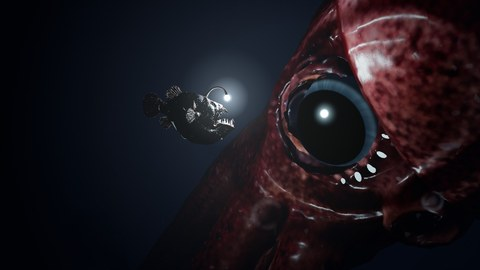
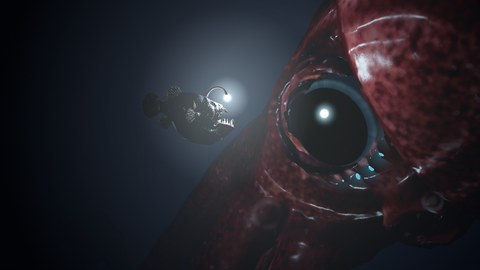
abyss-eye: mood over optics - wider lure wash, softer photophores
The concept art lets the lure wash the whole face in blue-white, which is
optically wrong but carries the mood; this is an atmosphere wallpaper.
- lure light decays slower (1.3) and a cold fill (decay 0.6) rides along
- bigger, brighter halo; iris dimmed and narrowed
- photophores shrunk to deep-cyan points, each with a small glow sprite
Frame time about 9.4 ms.

diff --git a/themes/abyss-eye/index.html b/themes/abyss-eye/index.html
@@ -146,7 +146,10 @@ scene.add(ambient);
 const rim = new THREE.DirectionalLight(0x4f86c6, 0.35);
 rim.position.set(1.5, 1.2, -2.5);
 scene.add(rim);
-const lureLight = new THREE.PointLight(0xcff4ff, 0, 0, 2);
+// The lure light falls off slower than physics (decay 1.3) and a cold fill rides along with an even flatter falloff:
+// in the concept art the lure washes the whole face in blue-white, which is wrong optically but right for the mood.
+const lureLight = new THREE.PointLight(0xcff4ff, 0, 0, 1.3);
+const lureFill = new THREE.PointLight(0x7fa6e8, 0, 0, 0.6);
 // the lure's glow in the murky water: a tight hot core and a wide soft halo, both additive sprites
 function glowTexture() {
   const c = document.createElement('canvas'); c.width = c.height = 128;
@@ -156,7 +159,12 @@ function glowTexture() {
   const t = new THREE.CanvasTexture(c); t.colorSpace = THREE.SRGBColorSpace; return t;
 }
 const glowTex = glowTexture();
-const halo = [0.06, 0.55].map(size => {
+const photoGlow = Array.from({ length: 14 }, () => {
+  const sp = new THREE.Sprite(new THREE.SpriteMaterial({ map: glowTex, color: 0x39b6ff, transparent: true, depthWrite: false,
+    blending: THREE.AdditiveBlending, fog: false, opacity: 0 }));
+  sp.scale.setScalar(0.07); scene.add(sp); return sp;
+});
+const halo = [0.06, 1.0].map(size => {
   const sp = new THREE.Sprite(new THREE.SpriteMaterial({ map: glowTex, color: 0xcff4ff, transparent: true, depthWrite: false,
     depthTest: size < 0.1, blending: THREE.AdditiveBlending, fog: false }));
   sp.userData.size = size; scene.add(sp); return sp;
@@ -241,7 +249,7 @@ function eyeMaterial() {
         vec3 iris = mix(vec3(0.10, 0.16, 0.22), vec3(0.42, 0.50, 0.55), smoothstep(uPupil, 0.95, rho)) * striae;
         iris *= smoothstep(0.98, 0.85, rho);                          // dark limbal ring
         float pupil = smoothstep(uPupil + 0.02, uPupil - 0.02, rho);
-        vec3 inside = mix(iris, vec3(0.0), pupil) * (0.015 + lit * 0.07) * uLureCol;
+        vec3 inside = mix(iris, vec3(0.0), pupil) * (0.012 + lit * 0.035) * uLureCol;
         inside += vec3(0.010, 0.016, 0.026) * (1.0 - pupil);         // a hint of the iris even unlit
         // the cornea: fresnel reflection of the dark water, plus the lure as a sharp highlight
         vec3 v = -rd, h = normalize(l + v);
@@ -352,7 +360,7 @@ function lookAtLure(dt, t, L) {
     target.multiply(e.sacc).multiply(drift);
     e.node.quaternion.slerp(target, 1 - Math.exp(-dt / (GAZE.lag / (1 + L * 2))));   // brighter → keener
     // pupil follows the light, slowly
-    e.pupil += (THREE.MathUtils.lerp(0.8, 0.64, THREE.MathUtils.smoothstep(L, 0, 0.4)) - e.pupil) * (1 - Math.exp(-dt / 1.5));
+    e.pupil += (THREE.MathUtils.lerp(0.82, 0.71, THREE.MathUtils.smoothstep(L, 0, 0.4)) - e.pupil) * (1 - Math.exp(-dt / 1.5));
     const u = e.mat.uniforms;
     u.uPupil.value = e.pupil; u.uLight.value = L;
     e.node.updateMatrixWorld();
@@ -375,7 +383,11 @@ loader.load('assets/colossal_squid.glb', g => {
   m.traverse(o => {
     if (o.isMesh) {
       o.frustumCulled = false;                    // skinned bounds are unreliable
-      if (o.material.name === 'photophore') squid.photo = o.material;
+      if (o.material.name === 'photophore') {
+        squid.photo = o.material; o.scale.multiplyScalar(0.6);
+        o.material.color.set(0x05121a); o.material.emissive.set(0x2fb8ff);
+        (squid.photoNodes ??= []).push(o);
+      }
       else if (o.material.name === 'eye_dark') o.material = eyeMaterial();   // a lens with depth, see eyeMaterial()
       else if (o.material.isMeshStandardMaterial) skinMaterial(o.material);
     }
@@ -404,7 +416,7 @@ loader.load('assets/anglerfish.glb', g => {
   });
   fish.esca = fish.parts.esca;
   fish.escaMat = fish.esca.material;
-  fish.esca.add(lureLight);
+  fish.esca.add(lureLight, lureFill);
   keep(fish.parts.illicium);
   fish.ready = true;
 }, undefined, e => console.warn('anglerfish not loaded:', e));
@@ -453,7 +465,12 @@ function animate(dt) {
     squid.spine.forEach((b, i) => wiggle(b, 0, Math.sin(t * 0.25 + i) * 0.012, Math.sin(t * 0.18 + i * 0.5) * 0.01));
     if (squid.head) wiggle(squid.head, 0, Math.sin(t * 2 * Math.PI / 40) * 0.02 * appear, 0);
     // photophores wake up as it arrives; a slow shimmer, brighter when the lure is brighter
-    if (squid.photo) squid.photo.emissiveIntensity = (0.15 + 2.2 * ss(14, 30, T) * (1 - ss(74, 86, T))) * (0.7 + 0.3 * Math.sin(t * 1.7)) * (0.6 + 1.5 * L);
+    const ph = (0.05 + 0.95 * ss(14, 30, T) * (1 - ss(74, 86, T))) * (0.75 + 0.25 * Math.sin(t * 1.7));
+    if (squid.photo) squid.photo.emissiveIntensity = ph * 1.4;
+    squid.photoNodes?.forEach((o, i) => {                              // each photophore gets a small soft glow
+      const sp = photoGlow[i]; o.getWorldPosition(sp.position);
+      sp.material.opacity = ph * (0.55 + 0.15 * Math.sin(t * 2.3 + i));
+    });
     squid.root.updateMatrixWorld(true);
     squid.eyeNode.getWorldPosition(squid.eye);
   }
@@ -476,8 +493,8 @@ function animate(dt) {
     if (p.illicium) wiggle(p.illicium, Math.sin(t * 1.3) * 0.08, Math.sin(t * 0.9) * 0.05, 0);
     if (fish.jaw) wiggle(fish.jaw, (0.5 + 0.5 * Math.sin(t * 0.45)) * 0.22, 0, 0);
     // the lure: glow + the scene's only light
-    lureLight.intensity = L;
-    lureLight.distance = 0;
+    lureLight.intensity = L * 0.8;
+    lureFill.intensity = L * 0.6;
     fish.escaMat.emissiveIntensity = 0.6 + 2.5 * Math.min(1, L / 0.25) + 0.15 * Math.sin(t * 2.9);
     fish.esca.getWorldPosition(lurePos);
   }
@@ -487,7 +504,7 @@ function animate(dt) {
   for (const sp of halo) {
     sp.position.copy(lurePos);
     sp.scale.setScalar(sp.userData.size * (0.55 + 0.8 * hk));
-    sp.material.opacity = sp.userData.size < 0.1 ? 0.5 + 0.5 * hk : 0.06 + 0.32 * hk;
+    sp.material.opacity = sp.userData.size < 0.1 ? 0.5 + 0.5 * hk : 0.10 + 0.45 * hk;
   }
   snowMat.uniforms.uTime.value = t;
   snowMat.uniforms.uLure.value.copy(lurePos);

diff --git a/themes/abyss-eye/README.md b/themes/abyss-eye/README.md
@@ -61,7 +61,8 @@
 
 ## 光與空氣
 
-- 餌球上掛一盞 `PointLight`，是場景唯一的真光源。
+- 餌球上掛一盞 `PointLight`（衰減 1.3，比物理慢）＋一盞冷藍補光（衰減 0.6）：概念圖裡燈把整張臉洗成藍白，光學上不對但氣氛對，**這是氛圍桌布，氣氛優先**。
+- 眼下發光器縮小成深青色，每顆帶一張小光暈 sprite。
 - 右後方一盞極弱的冷藍 `DirectionalLight` 做輪廓光，再加極弱的半球光。
 - ACES 色調、exposure 0.7、背景與指數霧都是 `#040a16`。
 - **光暈**：餌燈上疊兩張加法 sprite，一張小而亮的核心、一張大而柔的霧中散射，大小與透明度跟著光量變。
@@ -73,7 +74,7 @@
 - three.js r170，放在 `vendor/`（MIT，`vendor/LICENSE-three.txt`）。
 - 模型：`assets/colossal_squid.glb`（5.45 m、84 根骨頭，眼球與 14 顆發光器掛在頭骨）、`assets/anglerfish.glb`（0.185 m）。兩者都是 Tripo 專業版產出再經 Blender 腳本處理，說明見素材庫 README。
 - 30 fps 上限、像素預算 1920×1080 的一半。
-- 實測每格約 8.7 ms（1357×763，內建瀏覽器，含 GPU 同步）；第一版約 5.5 ms。
+- 實測每格約 9.4 ms（1357×763，內建瀏覽器，含 GPU 同步）；第一版約 5.5 ms。
 - 測試網址參數：`?t=55` 固定在演出第 55 秒、`?state=waiting` 固定狀態（不讀 state.json）。
 - `window.theme`：`requestState`、`applyState`、`setTime(秒|null)`、`setSessions([...])`、`frame()`、`place()`、`CONFIG`、`squid`、`fish`、`renderer`。
 
